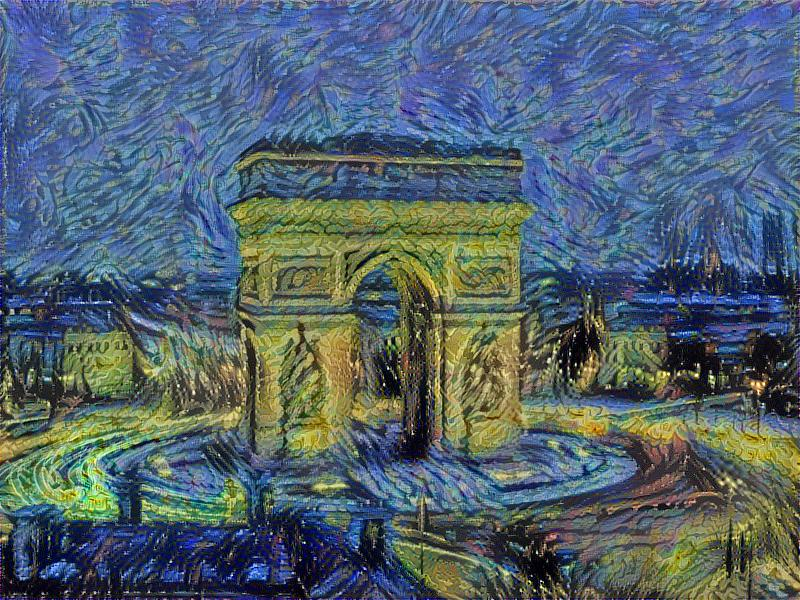
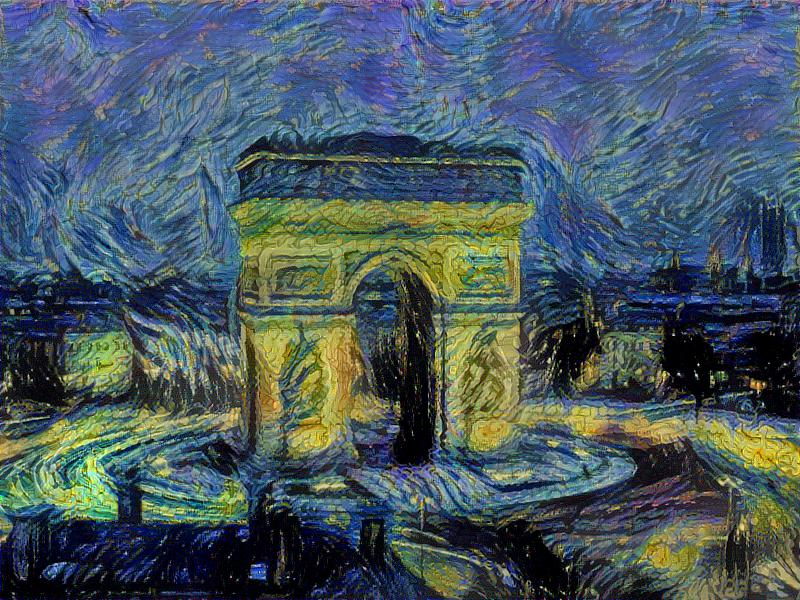
updated image resize code

diff --git a/main.py b/main.py
@@ -30,18 +30,17 @@ def parse_arguments():
     return parser.parse_args()
 
 IMAGE_PAIRS = [
+    ('village.jpg', 'lois_griffel.jpg'),
     ('taj_mahal.jpg',  'sunrise_monet.jpg'),
+    ('arc_de_triomphe.jpg', 'starry_night.jpg'),
+    ('new_york.jpg', 'sunrise_monet.jpg'),
     ('stonehenge.jpg', 'impression_1.jpg'),
     ('new_york.jpg', 'impression_2.jpg'),
     ('stone_henge.jpg', 'sunset_at_ivry.jpg'),
     ('arc_de_triomphe.jpg', 'impression_1.jpg'),
     ('arc_de_triomphe.jpg', 'impression_2.jpg'),
-    ('arc_de_triomphe.jpg', 'lois_griffel.jpg'),
-    ('new_york.jpg', 'sunrise_monet.jpg')
+    ('arc_de_triomphe.jpg', 'lois_griffel.jpg')
 ]
-
-def read_image(DIR, image_name):
-    return reshape_and_normalize_image(scipy.misc.imread(DIR + image_name))
 
 def compute_content_cost(a_C, a_G):
         _, n_H, n_W, n_C = a_G.get_shape().as_list()
@@ -90,10 +89,15 @@ def compute_style_cost(sess, model, STYLE_LAYERS):
 def total_cost(J_content, J_style, alpha = 10, beta = 40):
     return alpha * J_content + beta * J_style
 
+def read_image(DIR, image_name, image_shape=None):
+    return reshape_and_normalize_image(scipy.misc.imread(DIR + image_name), image_shape=image_shape)
+
 def model_nn(content_image_name, style_image_name, iterations=500, save_every=50):
 
+    # Reshape and Normalize images
     content_image = read_image(CONFIG.CONTENT_IMAGES_DIR, content_image_name)
-    style_image = read_image(CONFIG.STYLE_IMAGES_DIR, style_image_name)
+    _, height, width, _ = content_image.shape
+    style_image = read_image(CONFIG.STYLE_IMAGES_DIR, style_image_name, (height, width))
 
     tf.reset_default_graph()
 
@@ -124,7 +128,7 @@ def model_nn(content_image_name, style_image_name, iterations=500, save_every=50
 
         # Define the cost and optimizer
         cost = total_cost(content_cost, style_cost)
-        optimizer = tf.train.AdamOptimizer(2.0)
+        optimizer = tf.train.AdamOptimizer(1.0)
         train_step = optimizer.minimize(cost)
         
         sess.run(tf.global_variables_initializer())

diff --git a/utils.py b/utils.py
@@ -1,4 +1,4 @@
-import scipy.misc
+import scipy
 import numpy as np
 
 from PIL import Image
@@ -18,8 +18,9 @@ def generate_noise_image(content_image, noise_ratio = CONFIG.NOISE_RATIO):
     """
     Generates a noisy image by adding random noise to the content_image
     """
+    _, height, width, channels = content_image.shape
     # Generate a random noise_image
-    noise_image = np.random.uniform(-20, 20, (1, CONFIG.IMAGE_HEIGHT, CONFIG.IMAGE_WIDTH, CONFIG.COLOR_CHANNELS)).astype('float32')
+    noise_image = np.random.uniform(-20, 20, (1, height, width, channels)).astype('float32')
     
     # Set the input_image to be a weighted average of the content_image and a noise_image
     input_image = noise_image * noise_ratio + content_image * (1 - noise_ratio)
@@ -27,22 +28,26 @@ def generate_noise_image(content_image, noise_ratio = CONFIG.NOISE_RATIO):
     return input_image
 
 
-def reshape_and_normalize_image(image):
+def reshape_and_normalize_image(image, image_shape=None):
     """
     Reshape and normalize the input image (content or style)
     """
-    
-    # Reshape image to mach expected input of VGG16
-    image = np.reshape(image, ((1,) + image.shape))
-    
+    if image_shape == None:
+        image_shape = (CONFIG.IMAGE_HEIGHT, CONFIG.IMAGE_WIDTH)
+        
+    try:
+        resized_image = scipy.misc.imresize(image, image_shape)
+        # Reshape image to mach expected input of VGG16
+        image = np.reshape(resized_image, ((1, ) + resized_image.shape))
+    except ValueError as e:
+        print(str(e))
+        exit(0)
     # Substract the mean to match the expected input of VGG16
     image = image - CONFIG.MEANS
-    
     return image
 
 
 def save_image(path, image):
-    
     # Un-normalize the image so that it looks good
     image = image + CONFIG.MEANS
     
